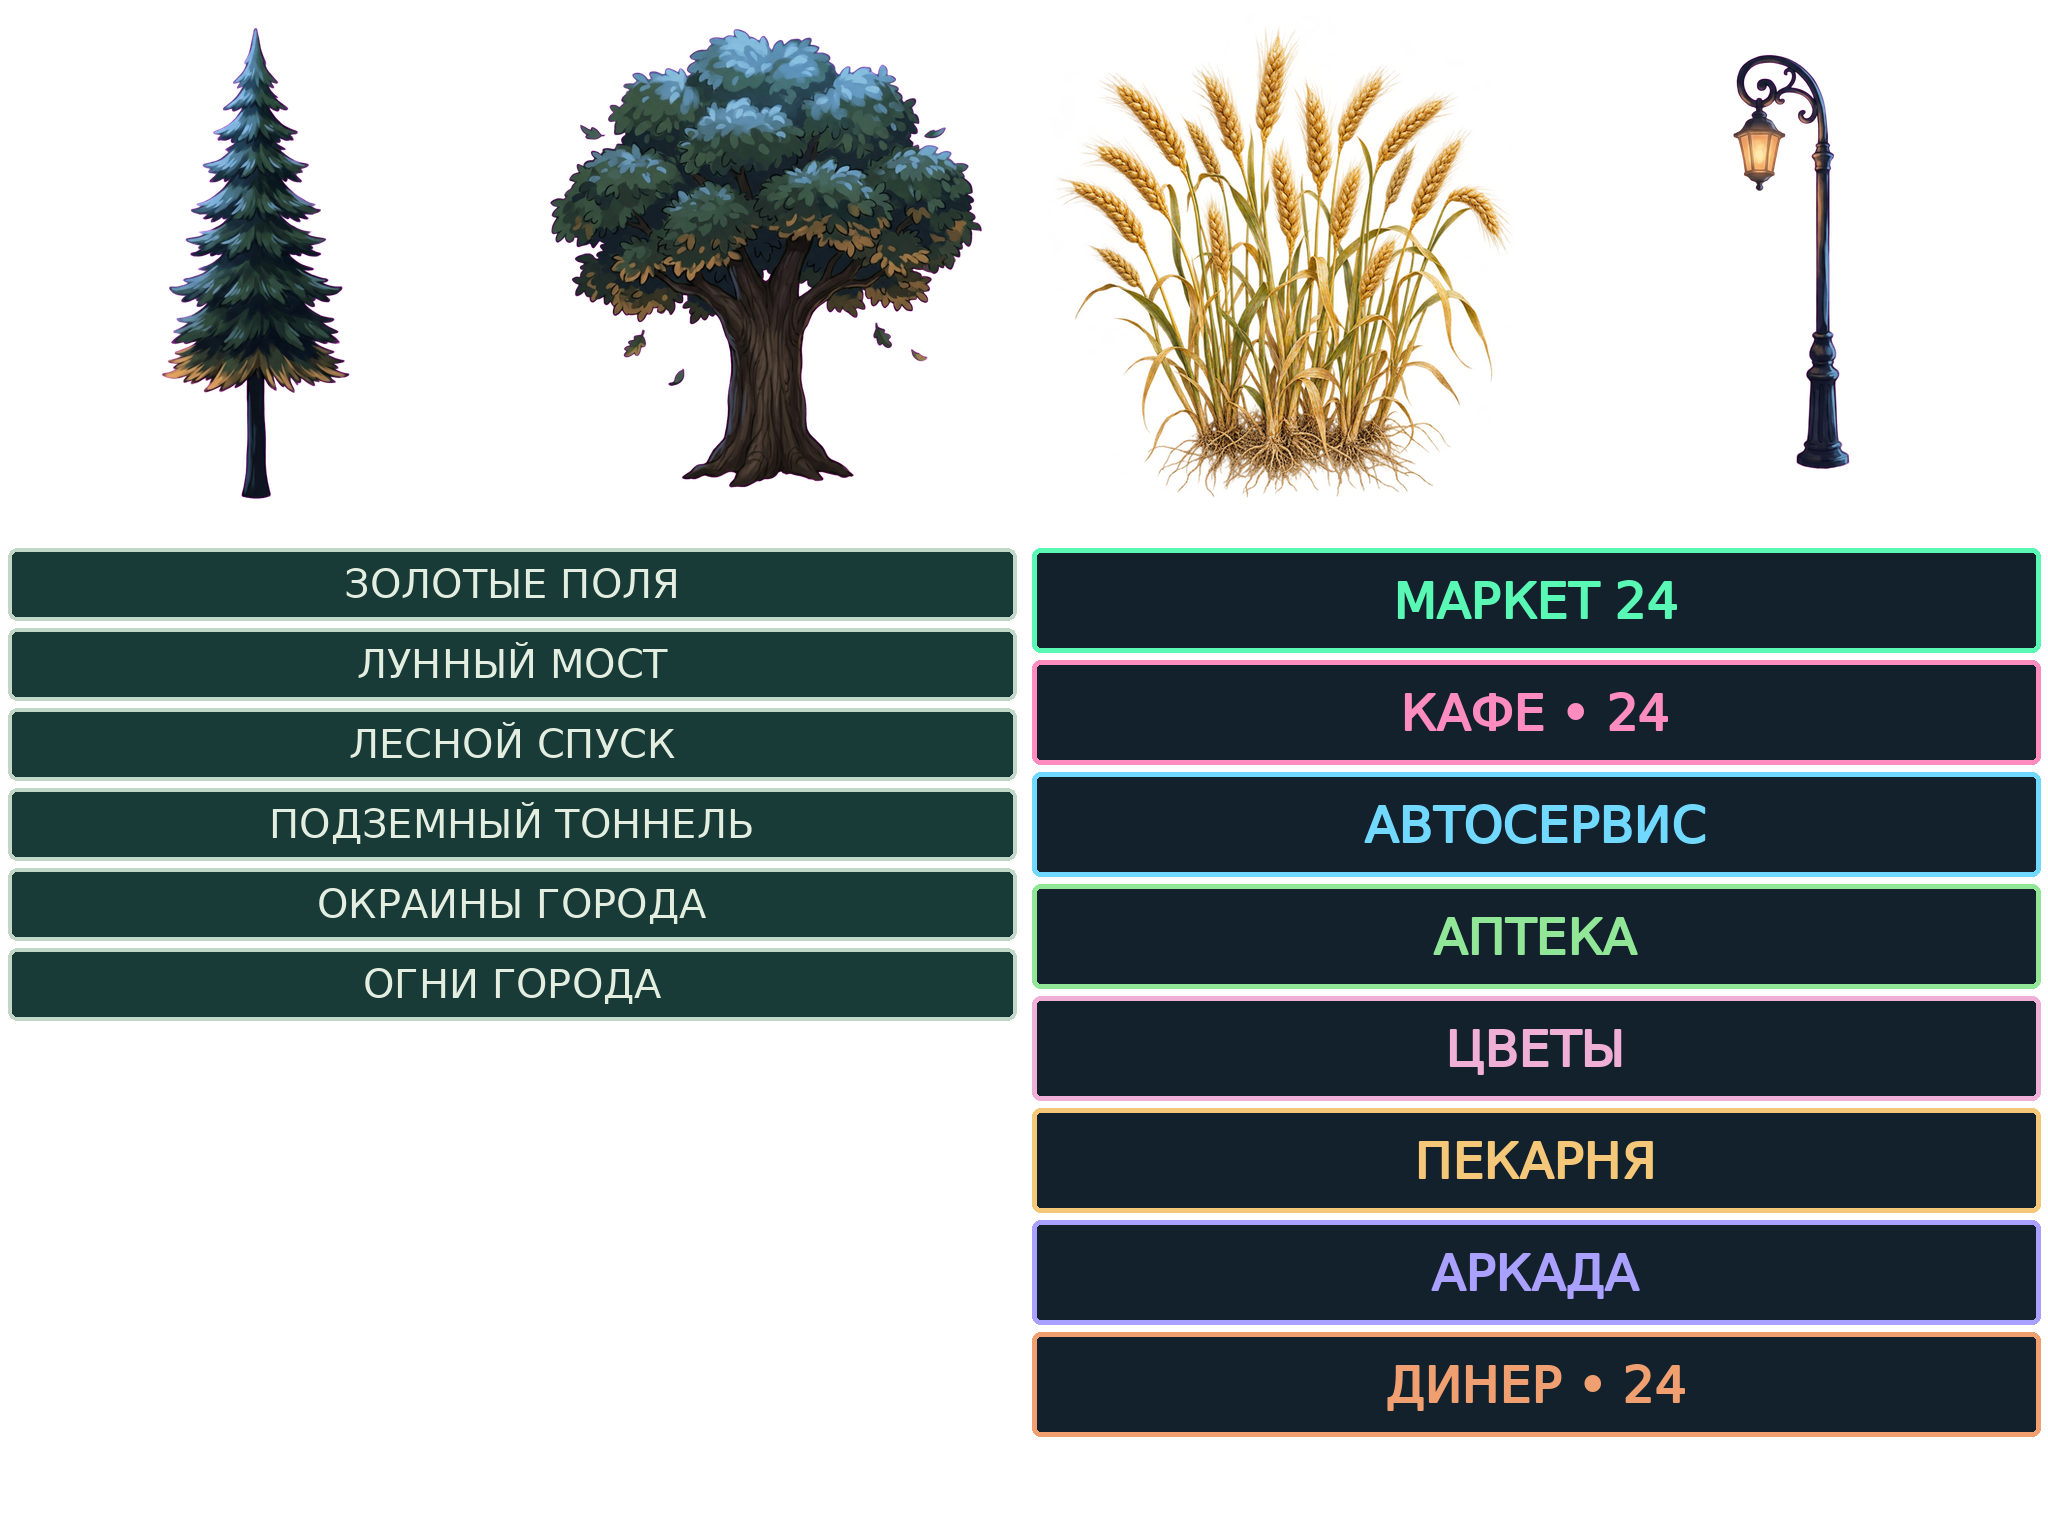
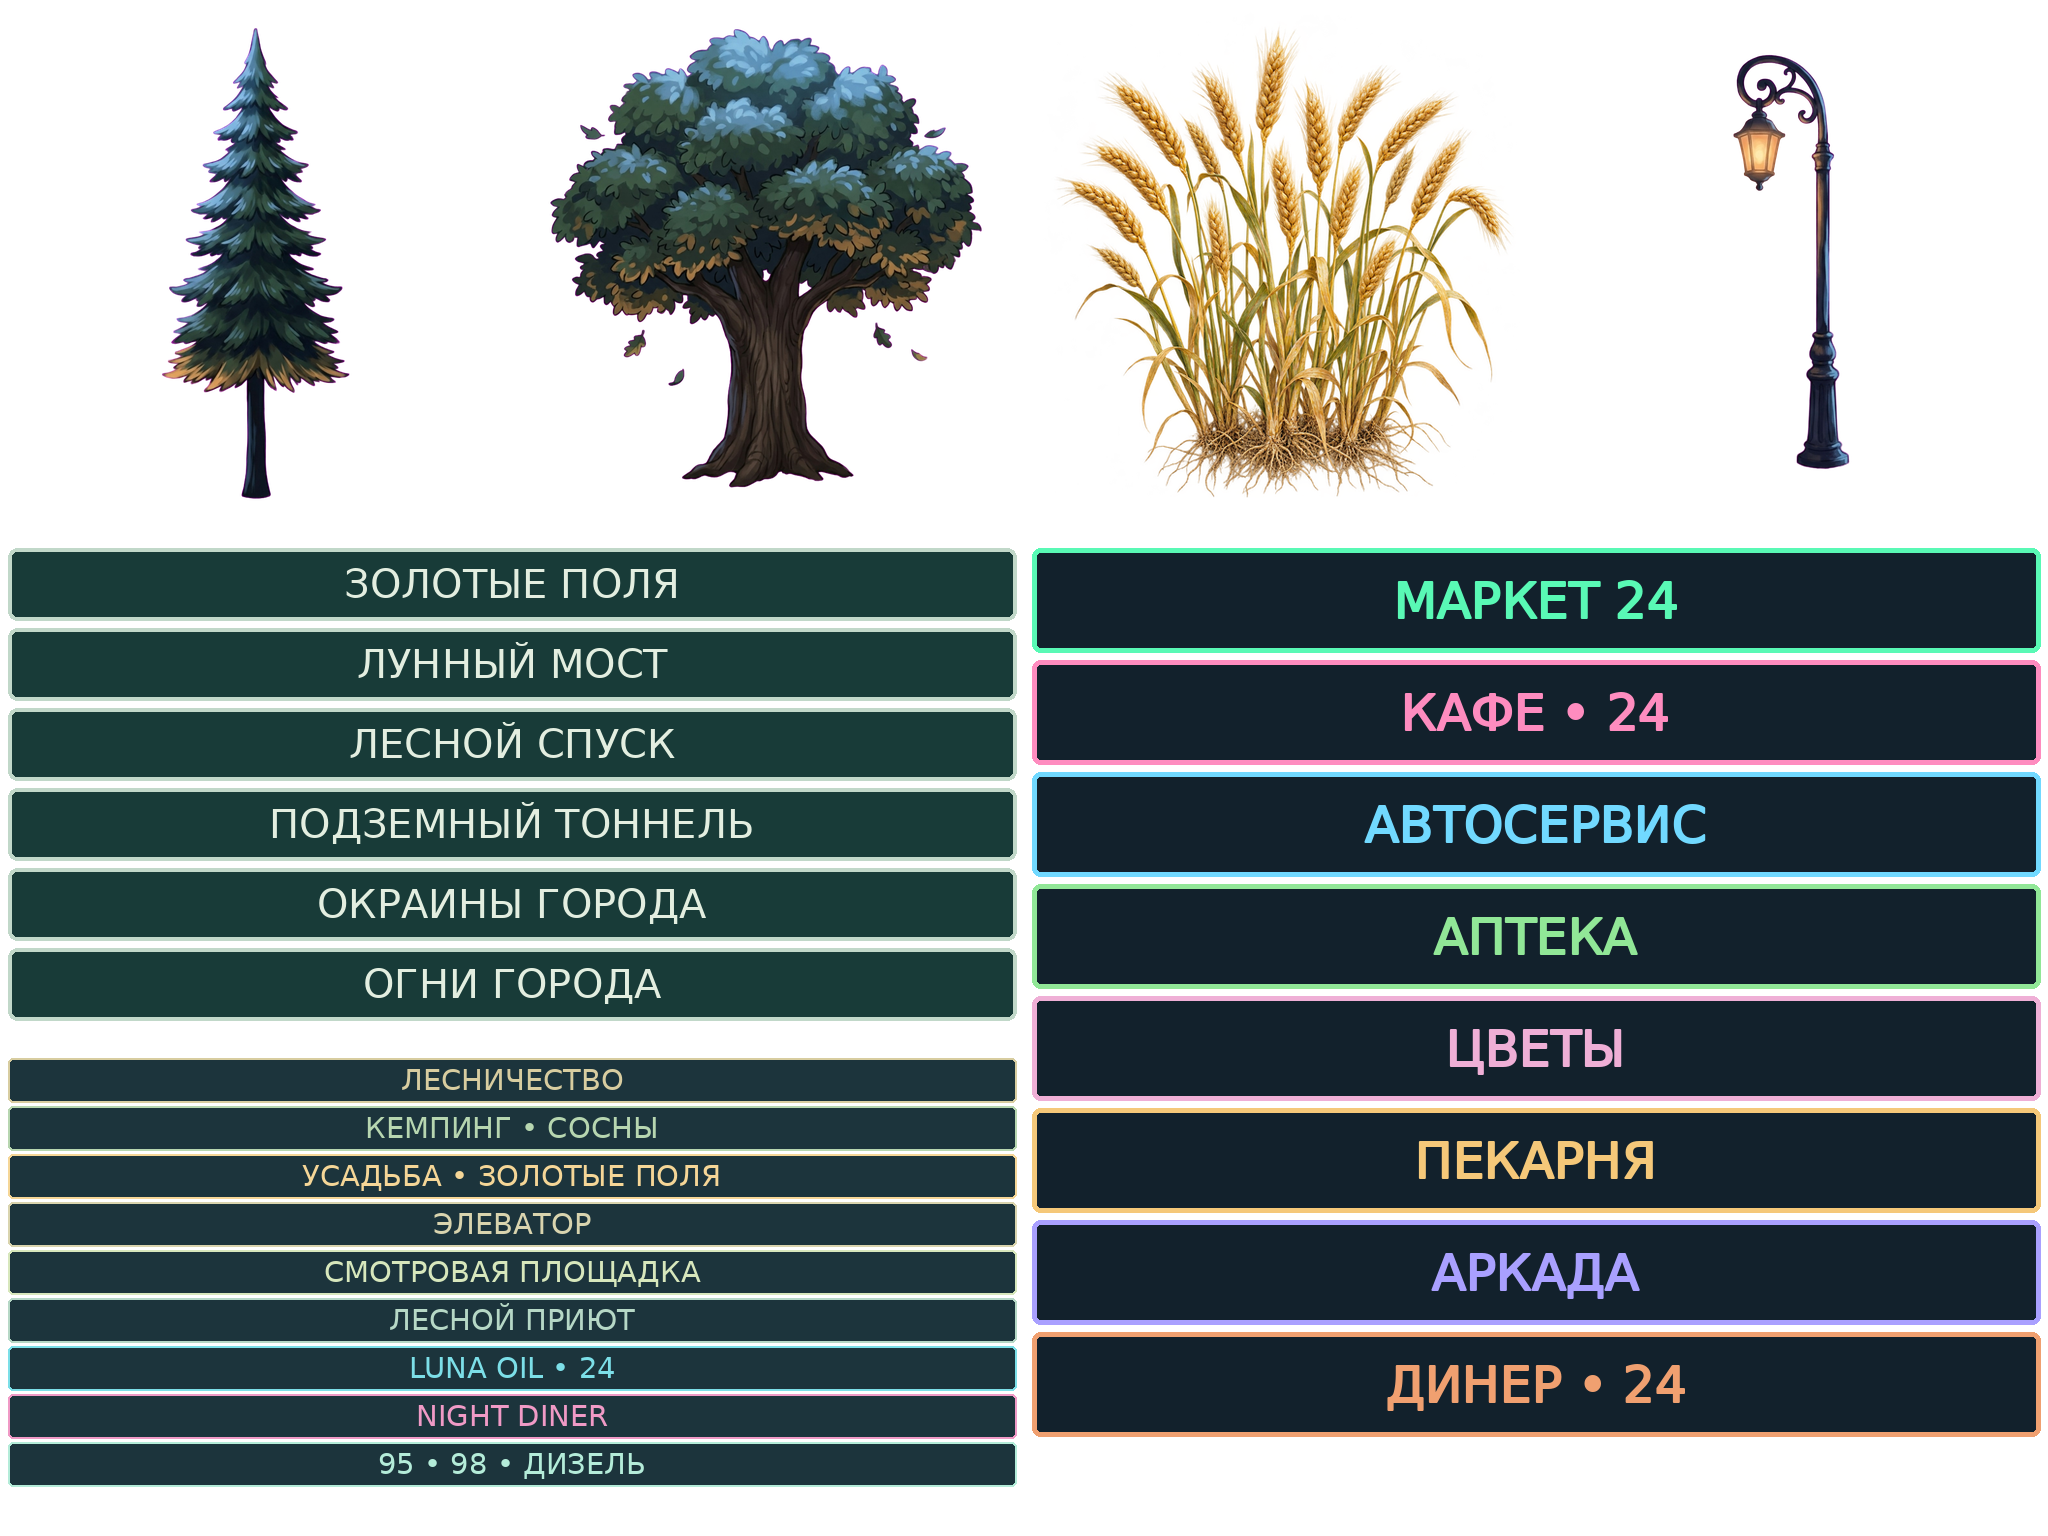
Cache scenic terrain visibility and add distinct landmarks with a full city panorama

Changed region(s): [[0.0, 0.6875, 0.5, 0.9688]]

diff --git a/tools/prepare_scenery_atlas.py b/tools/prepare_scenery_atlas.py
@@ -20,5 +20,9 @@ for row,(name,color) in enumerate([('МАРКЕТ 24','#59f9b5'),('КАФЕ • 
     draw.rounded_rectangle((1032,top+4,2040,top+108),radius=8,fill='#12212c',outline=color,width=5)
     font=ImageFont.truetype(font_path,50)
     draw.text((1536,top+56),name,font=font,fill=color,anchor='mm',stroke_width=1)
+for row,(name,color) in enumerate([('ЛЕСНИЧЕСТВО','#d8cda0'),('КЕМПИНГ • СОСНЫ','#b7d6b0'),('УСАДЬБА • ЗОЛОТЫЕ ПОЛЯ','#f5d697'),('ЭЛЕВАТОР','#d9d4ae'),('СМОТРОВАЯ ПЛОЩАДКА','#d7e7bc'),('ЛЕСНОЙ ПРИЮТ','#b6d8c6'),('LUNA OIL • 24','#7cdfe8'),('NIGHT DINER','#f09ac6'),('95 • 98 • ДИЗЕЛЬ','#b4ecd9')]):
+    top=1056+row*48
+    draw.rounded_rectangle((8,top+2,1016,top+46),radius=5,fill='#1c343c',outline=color,width=2)
+    draw.text((512,top+24),name,font=ImageFont.truetype(font_path,29),fill=color,anchor='mm')
 draw.rectangle((2024,1512,2047,1535),fill='white')
 out.save(ROOT/'assets/level2/scenery_atlas.png',optimize=True)
